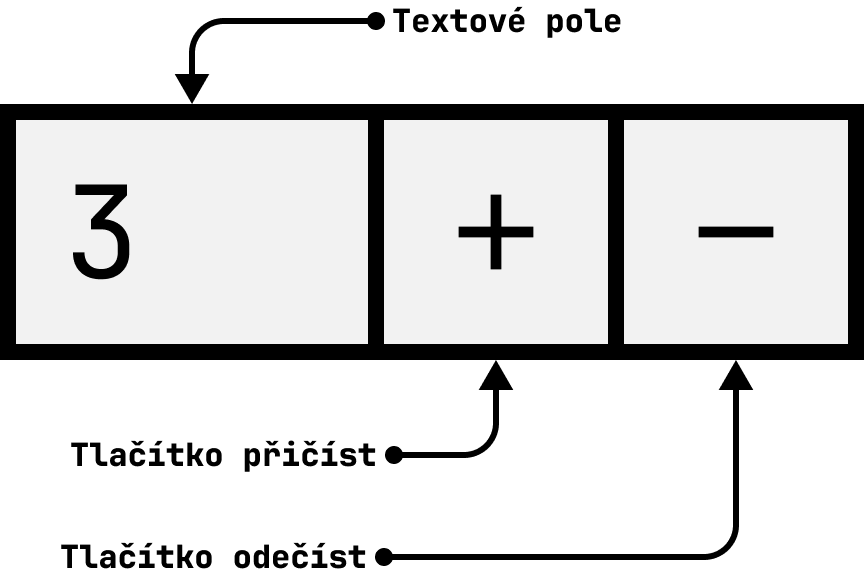
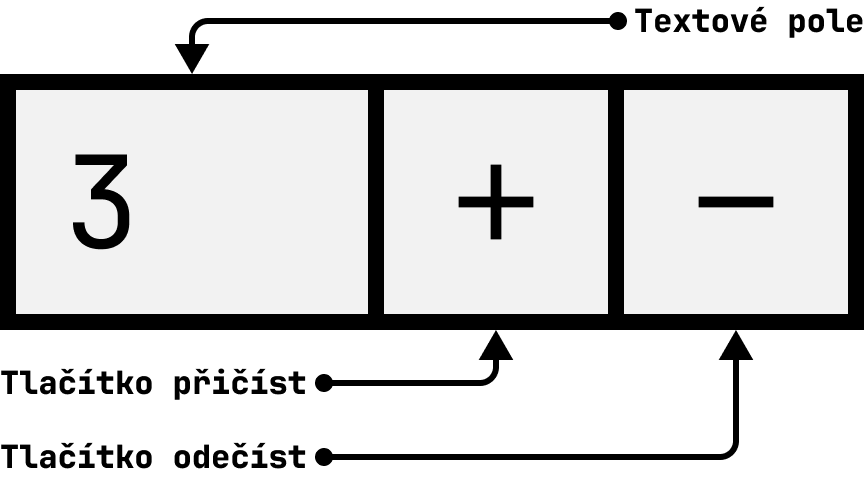
feat(part-3/design): add lo fi diagrams

diff --git a/src/parts/part-3/design.tex b/src/parts/part-3/design.tex
@@ -2,13 +2,53 @@
 
 Tato kapitola popisuje návrh implementace a komplementárních struktur.
 
+\section{Toolbar}
+
+Toolbar je strukturová komponenta, která obsahuje skupinu \textit{focusovatelných}\footnote{Elementy, které můžou dostat focus od uživatele (např. tlačítka, zaškrtávací políčka\dots).} elementů.
+Hlavní přínos této komponenty je jednodušší klávesová navigace pomocí klávesových šipek a dalších zkratek namísto klasického proklikávání tabulátorem.
+
+\begin{figure}[htp]
+    \centering
+    \includegraphics[max size={\linewidth}{\textheight}]{./assets/figures/anatomy/toolbar.png}
+    \captionsetup{justification=centering}
+    \caption{Anatomie komponenty Toolbar}
+\end{figure}
+
 \section{SpinButton}
 
 SpinButton je formulářová komponenta, která vymezuje rozsah diskrétních hodnot a typicky umožňuje uživateli změnit její hodnotu pomocí navyšovacích a snižovacích tlačítek, nebo alternativně skrze textový vstup.
 
-\begin{figure}[h]
+\begin{figure}[htp]
     \centering
     \includegraphics[max size={\linewidth}{\textheight}]{./assets/figures/anatomy/spinbutton.png}
     \captionsetup{justification=centering}
     \caption{Anatomie komponenty SpinButton}
 \end{figure}
+
+\section{Feed}
+
+TODO
+
+\section{Carousel}
+
+Carousel je komponenta pro zobrazení multimediálního obsahu v podobě obrázků, videí nebo alternativních prvků.
+V rámci \gls{apg} jsou popsané tři varianty této komponenty popsané níže.
+
+\begin{figure}[htp]
+    \centering
+    \includegraphics[max size={\linewidth}{\textheight}]{./assets/figures/anatomy/carousel.png}
+    \captionsetup{justification=centering}
+    \caption{Anatomie komponenty Carousel}
+\end{figure}
+
+\subsection{Basic Carousel}
+
+TODO
+
+\subsection{Tabbed Carousel}
+
+TODO
+
+\subsection{Grouped Carousel}
+
+TODO

diff --git a/src/parts/appendix/software.tex b/src/parts/appendix/software.tex
@@ -1,20 +1,29 @@
 \section{Text}
 
 \begin{itemize}
-    \item diagrams.net
+    \item \textbf{diagrams.net}\footnote{\url{https://app.diagrams.net}} --- online nástroj pro tvorbu diagramů.
+    \item \textbf{TinyTex}\footnote{\url{https://yihui.org/tinytex}} --- zmenšená distribuce \LaTeX.
 \end{itemize}
 
 \section{Projekt}
 
-TODO
+\begin{itemize}
+    \item \textbf{Solid.js}\footnote{\url{https://solidjs.com}}
+    \item \textbf{solid-aria}\footnote{\url{https://github.com/solidjs-community/solid-aria}}
+\end{itemize}
 
 \section{Ostatní}
 
 \begin{itemize}
-    \item Notion
-    \item Visual Studio Code
+    \item \textbf{Notion}\footnote{\url{https://notion.so}} --- správa semestrální práce a sledování úkolů.
+    \item \textbf{Visual Studio Code}\footnote{\url{https://code.visualstudio.com}} --- editor pro psaní kódu.
+    \item \textbf{Fork}\footnote{\url{https://git-fork.com}} --- Git GUI klient pro správu projektových repozitářů.
 \end{itemize}
 
 \section{Umělá inteligence}
 
-TODO
+\begin{itemize}
+    \item \textbf{ChatGPT}\footnote{\url{https://chat.openai.com}} --- LLM model využitý pro debugování kódu.
+    \item \textbf{GitHub Copilot}\footnote{\url{https://github.com/features/copilot}} --- LLM model využitý pro doplňování kódu.
+    \item \textbf{Grammarly}\footnote{\url{https://grammarly.com}}
+\end{itemize}

diff --git a/src/parts/part-3/implementation.tex b/src/parts/part-3/implementation.tex
@@ -2,7 +2,19 @@
 
 Tato kapitola popisuje implementaci komponent.
 
+\section{Toolbar}
+
+TODO
+
 \section{SpinButton}
+
+TODO
+
+\section{Feed}
+
+TODO
+
+\section{Carousel}
 
 TODO
 
